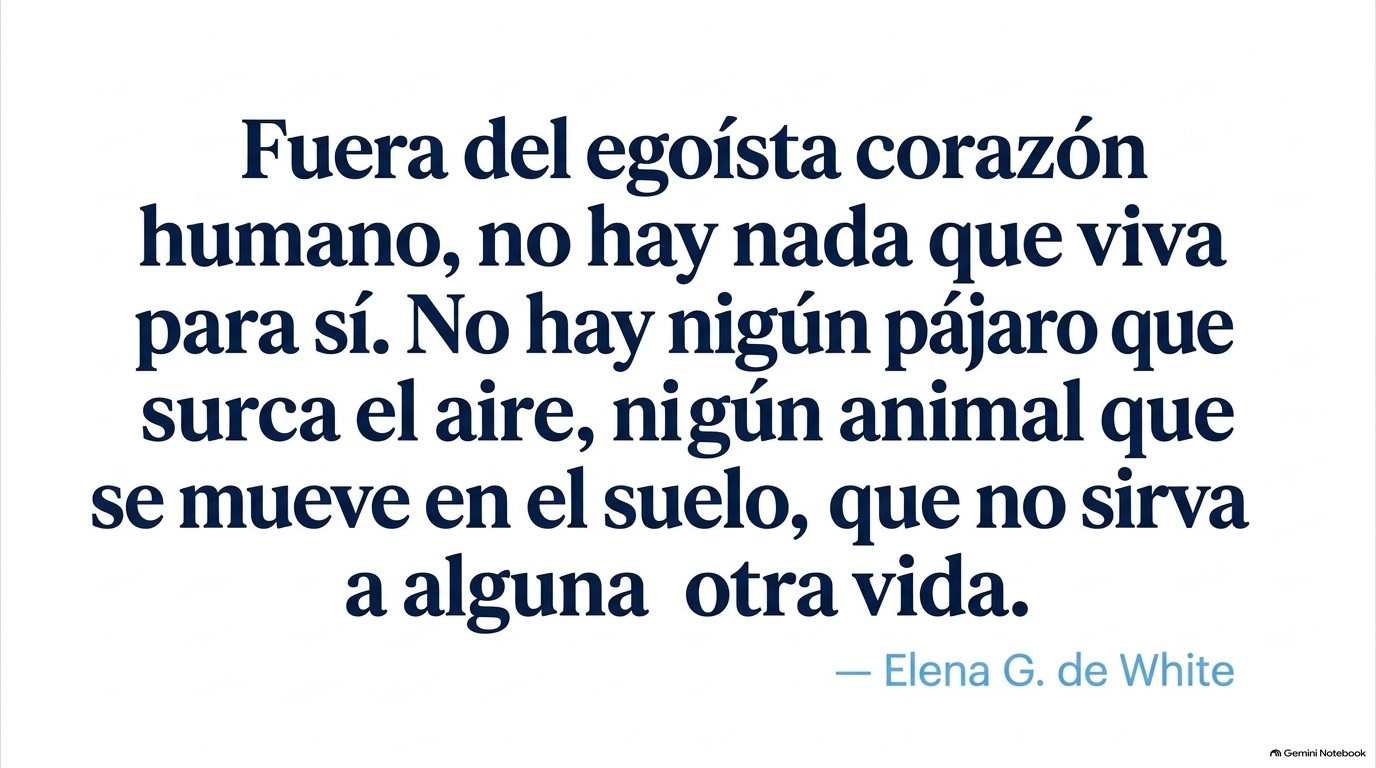
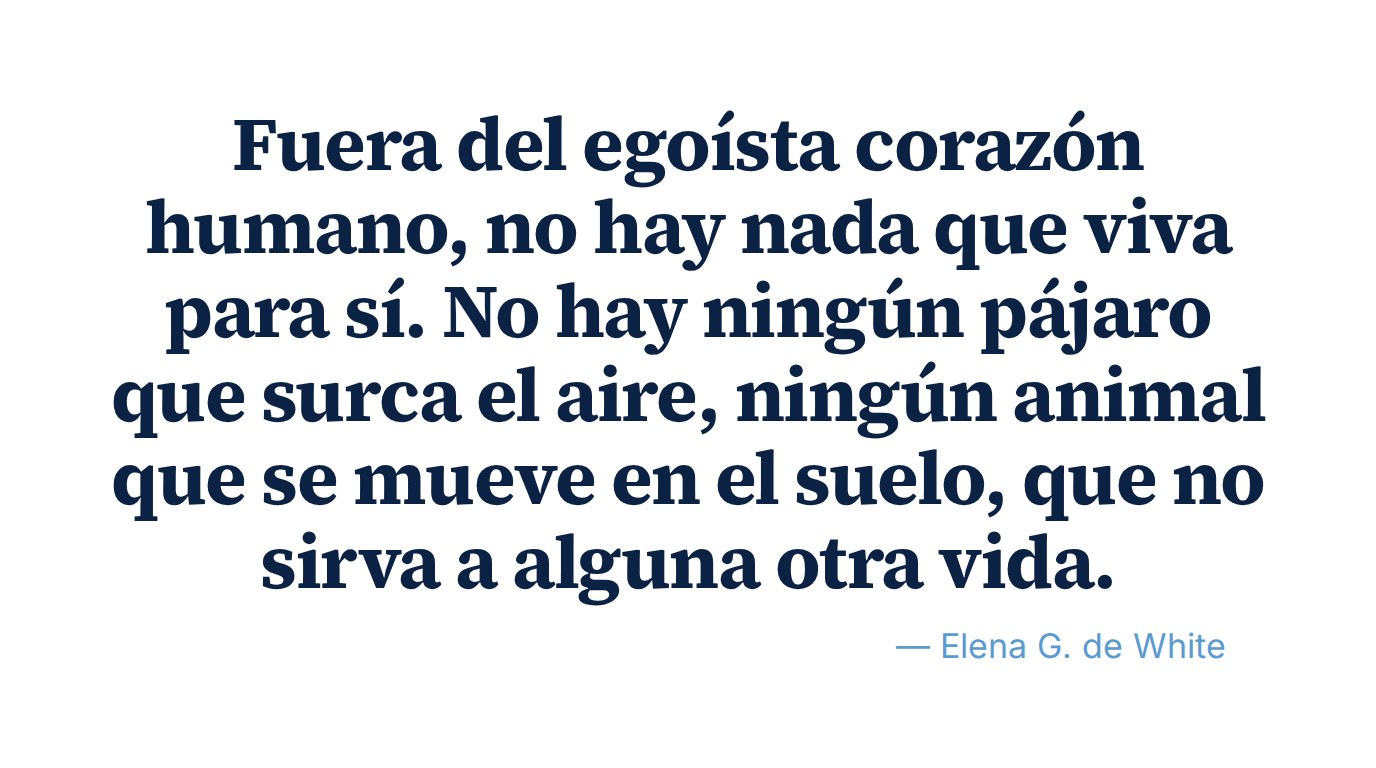
Sermón NotebookLM: láminas 4, 8 y 12 con el texto corregido
- 4: «nigún» → «ningún» (cita de Elena G. de White).
- 8: cita de Roberto Badenas completa («si doy X, recibo X») y sin «el el».
- 12: «¿Sientes que la vida te debe algo, o sientes que estás en deuda con Dios?».

Claude-Session: https://claude.ai/code/session_01A6zSw96vquwFewWwW98ers

Changed region(s): [[0.0625, 0.125, 0.9375, 0.9062], [0.9375, 0.9688, 1.0, 1.0]]

diff --git a/index.html b/index.html
@@ -5596,7 +5596,7 @@ const PRESENTATIONS = [{
     alt: 'YO. Venimos de fábrica con un error de origen.'
   }, {
     type: 's-image',
-    src: 'presentaciones/sermon-a-quien-sirves-notebooklm/04.jpg',
+    src: 'presentaciones/sermon-a-quien-sirves-notebooklm/04.jpg?v=2',
     alt: 'Fuera del egoísta corazón humano, no hay nada que viva para sí. — Elena G. de White'
   }, {
     type: 's-image',
@@ -5615,7 +5615,7 @@ const PRESENTATIONS = [{
     verses: ['Mateo 20:10']
   }, {
     type: 's-image',
-    src: 'presentaciones/sermon-a-quien-sirves-notebooklm/08.jpg',
+    src: 'presentaciones/sermon-a-quien-sirves-notebooklm/08.jpg?v=2',
     alt: 'Justicia retributiva y distributiva — Roberto Badenas'
   }, {
     type: 's-image',
@@ -5632,7 +5632,7 @@ const PRESENTATIONS = [{
     alt: 'Servicio + expectativa de justicia (aplauso) = frustración'
   }, {
     type: 's-image',
-    src: 'presentaciones/sermon-a-quien-sirves-notebooklm/12.jpg',
+    src: 'presentaciones/sermon-a-quien-sirves-notebooklm/12.jpg?v=2',
     alt: '¿Sientes que la vida te debe algo, o sientes que estás en deuda con Dios?',
     note: 'Preguntas personales: dar unos segundos de silencio.'
   }, {
